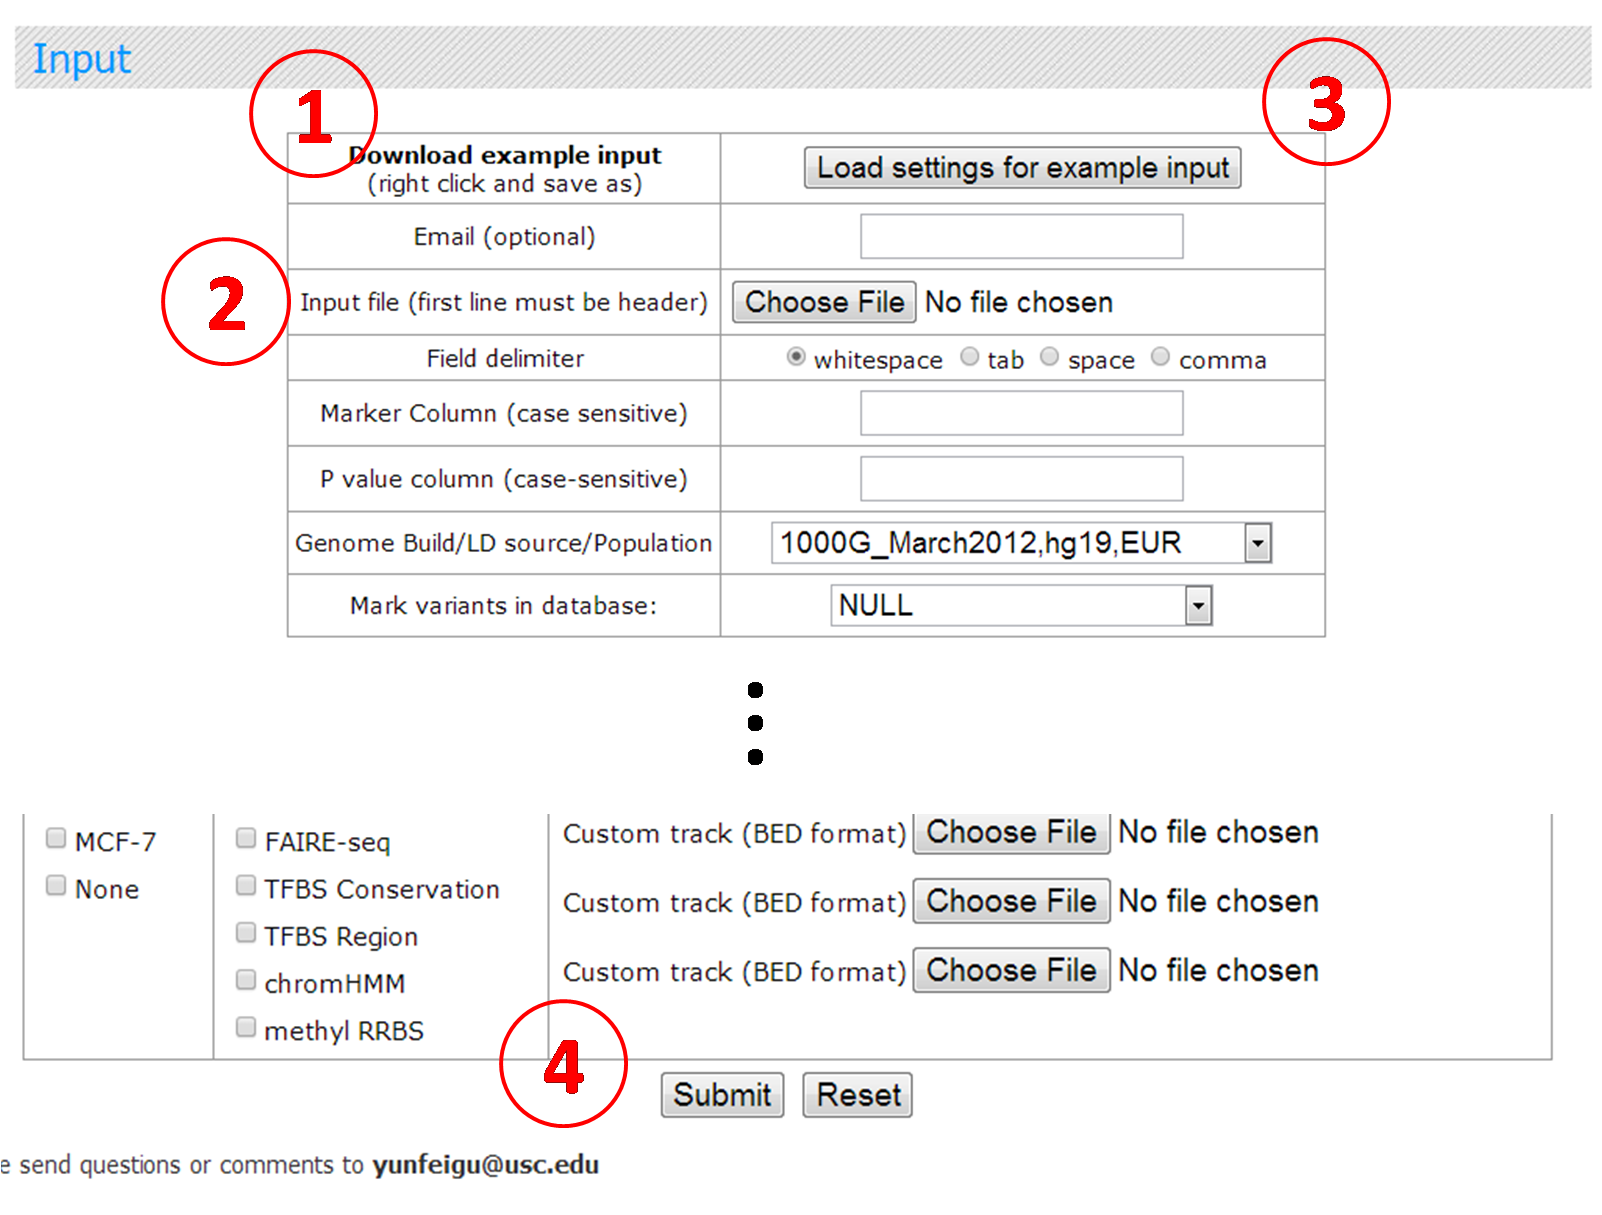
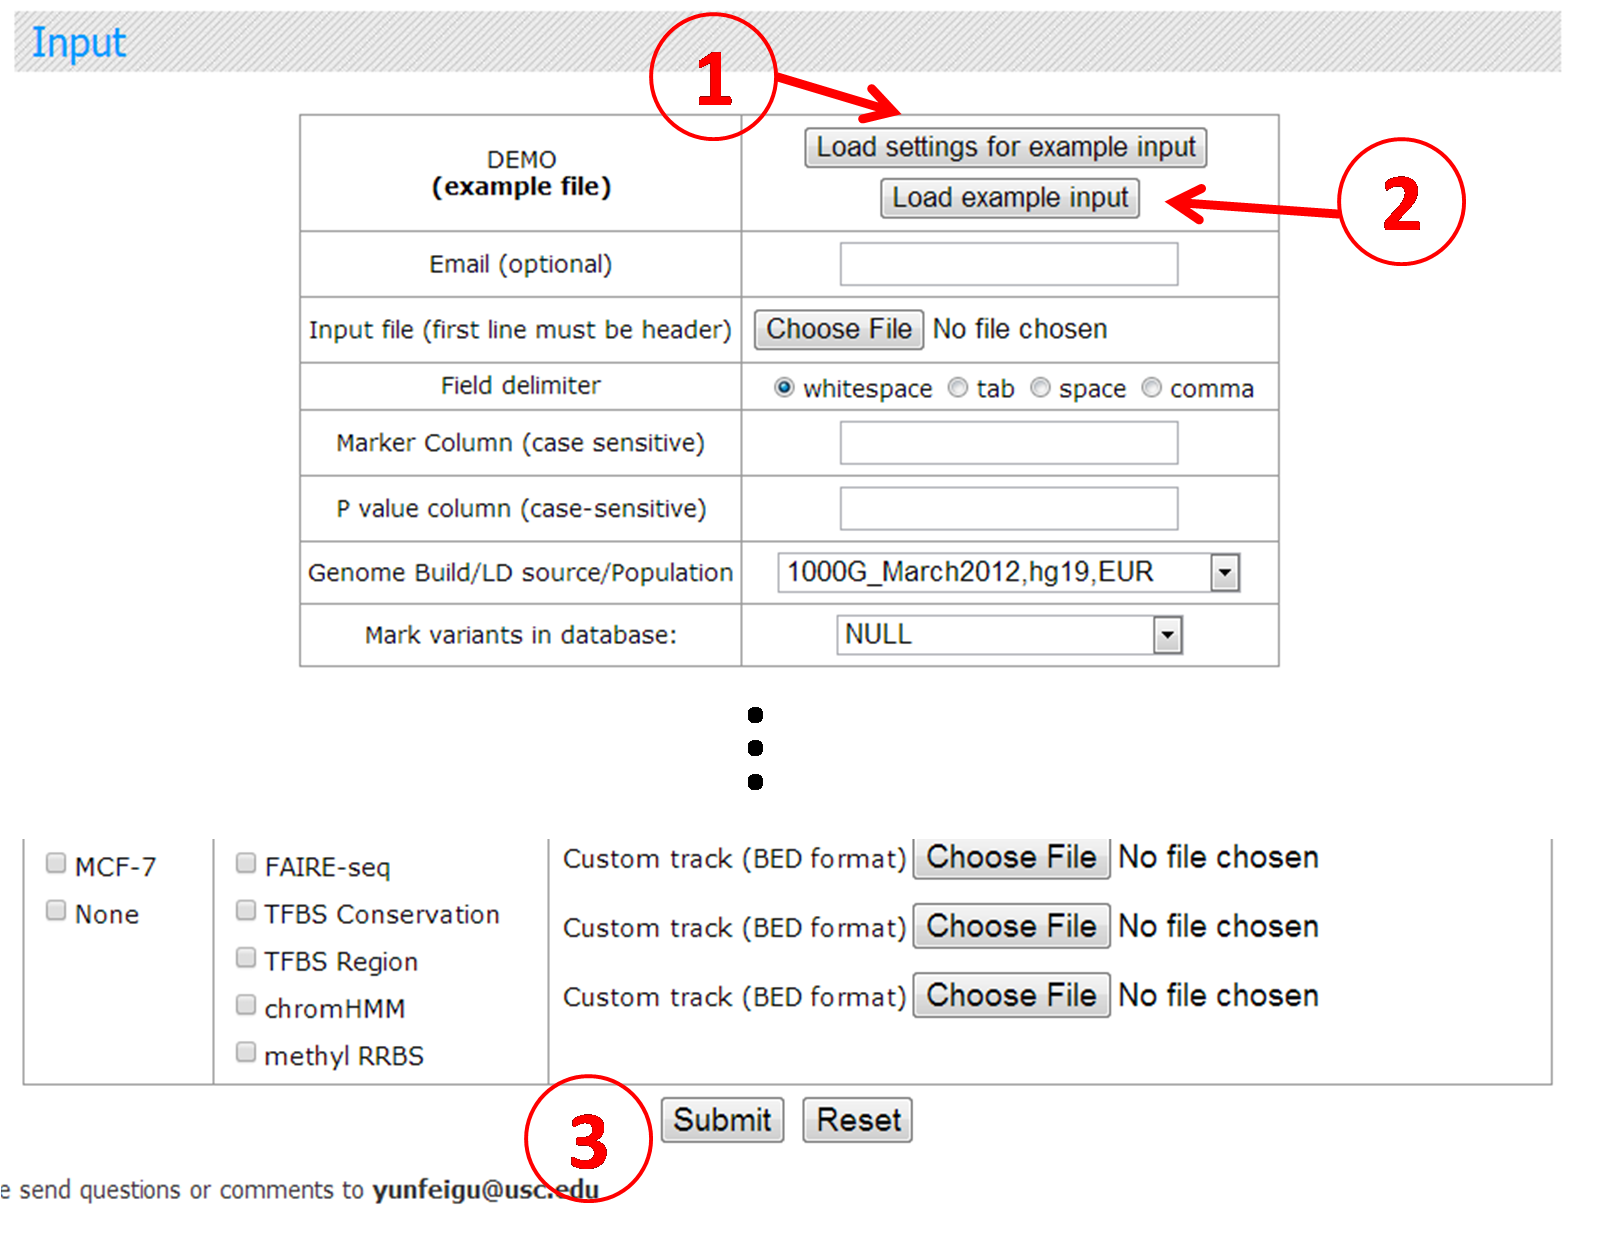
mod help,tutorial

Changed region(s): [[0.0, 0.0, 0.9988, 0.6395], [0.0, 0.67, 0.9675, 0.9745], [0.0312, 0.67, 0.0936, 0.7613]]

diff --git a/template/pages/tutorial.html b/template/pages/tutorial.html
@@ -67,20 +67,18 @@ ddsmoothmenu.init({
     
     <div id="templatemo_main"><br class="cleaner" />
 	<h2>Getting Started</h2>
-
-	<h3>1. Download example input</h3>
-	<p>Right click 'Download example input' and choose 'save link as'. After downloading, you can use any text editor (like NotePad on Windows) to open it if you are curious about the format and content.
-	<h3>2. Upload the example input</h3>
-	<p>Next upload example input in the 'Input file' row.</p>
-	<h3>3. Load settings for example input</h3>
+        <strong>Each step is also shown in the figure below</strong>
+	<h3>1. Load settings for example input</h3>
 	<p>Simply click 'Load settings for example input' button.</p>
-	<h3>4. Submit</h3>
+	<h3>2. Load example input</h3>
+	<p>Click 'Load example input' button. If you are curious about the content of input file, click 'example file' in the left column.</p>
+	<h3>3. Submit</h3>
 	<p>Click 'Submit' button at the bottom and come back in a few minutes.</p>
 	<br />
 	<img src="../images/input_tutorial.png" width=700 height=570>
 	<br />
-	<h3>5. Examine results</h3>
-	<p>You should be redirected to result page automatically once the plot is done. Go to the <a href="help.html">Help</a> page to figure out the meaning of the plot</p>
+	<h3>4. Examine results</h3>
+	<p>You should be redirected to result page automatically once the plot is done. Go to the <strong><a href="help.html">Help</a></strong> page to figure out the meaning of the plot</p>
 
 	<h2>Upload custom BED file</h2>
 	<h3>Create BED file</h3>

diff --git a/template/pages/help.html b/template/pages/help.html
@@ -69,7 +69,7 @@ ddsmoothmenu.init({
 	<h2>Example Input</h2>
 	<img width=600 height=340 src="../images/enlight_example_input.png" class='center'>
 	<h2>Example Plot</h2>
-	<p><b>An example plot showing 1MB and 100KB region around rs10318. After zooming in, DNase Hypersensitivity Sites (DHS) can be visually identified near some variants that are in high LD with the index SNP. These SNPs might be good candidates for causal variants. Plot summary and legend (not shown here) can be found on the second page of your result PDF file.</b></p>
+	<p><b>An example plot showing 1MB and 100KB region around rs10318, which is a known variant showing genome-wide significant association with colorectal cancer. After zooming in, DNase Hypersensitivity Sites (DHS) can be visually identified near some variants that are in high LD with the index SNP. These SNPs might be good candidates for causal variants. Plot summary and legend (not shown here) can be found on the second page of your result PDF file.</b></p>
 	<br />
 	<img width=900 height=1311 src="../images/enlight_example_output.png" class='center'>
 	<h2>Example Text Annotation</h2>
